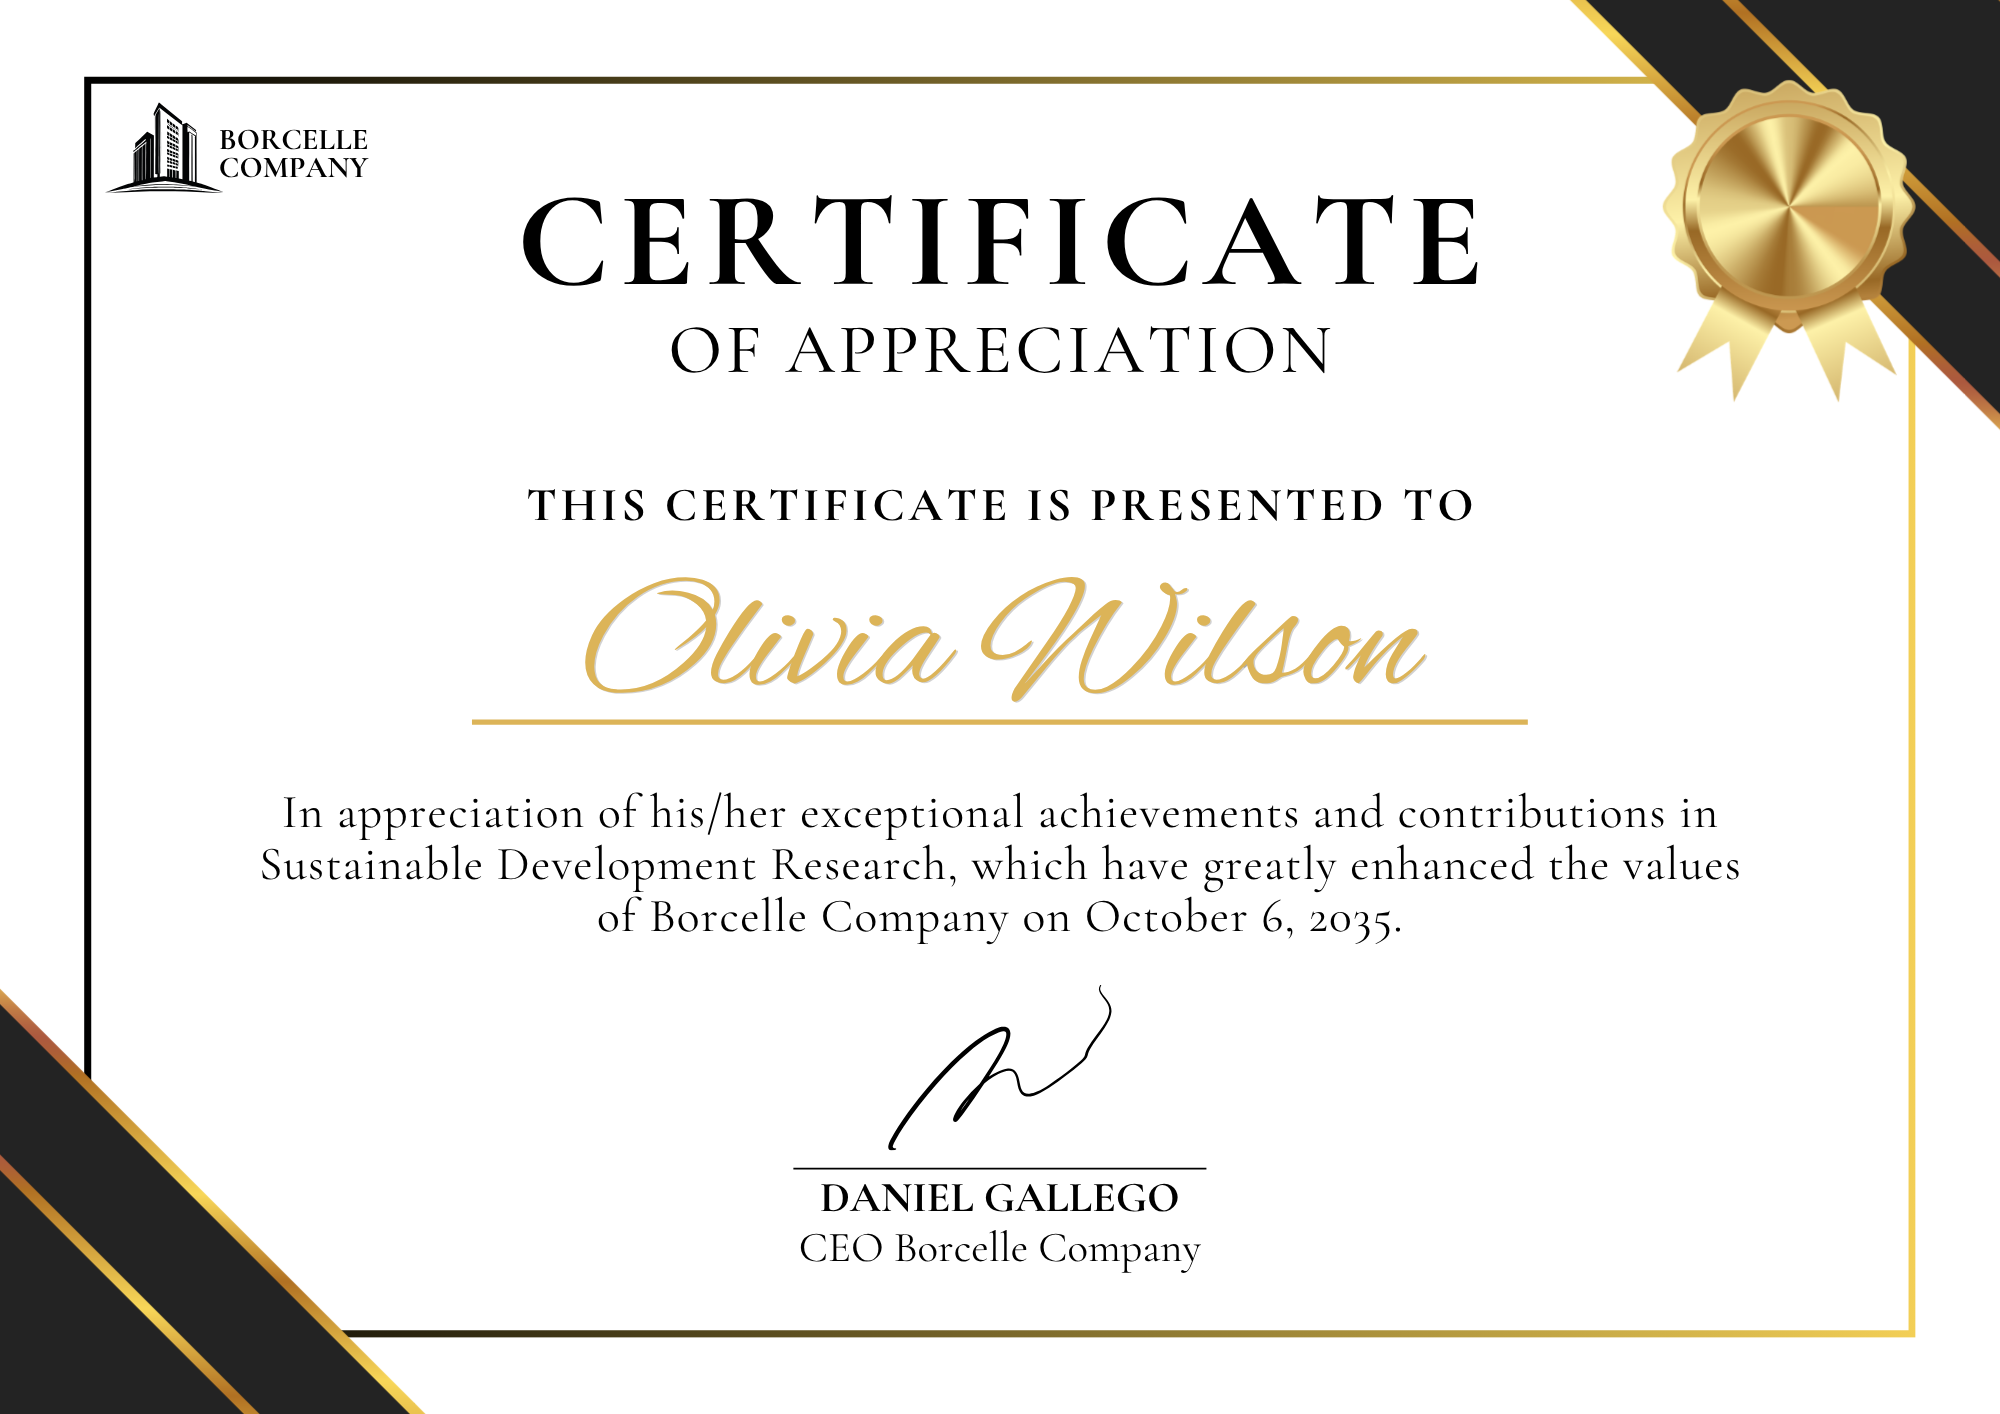
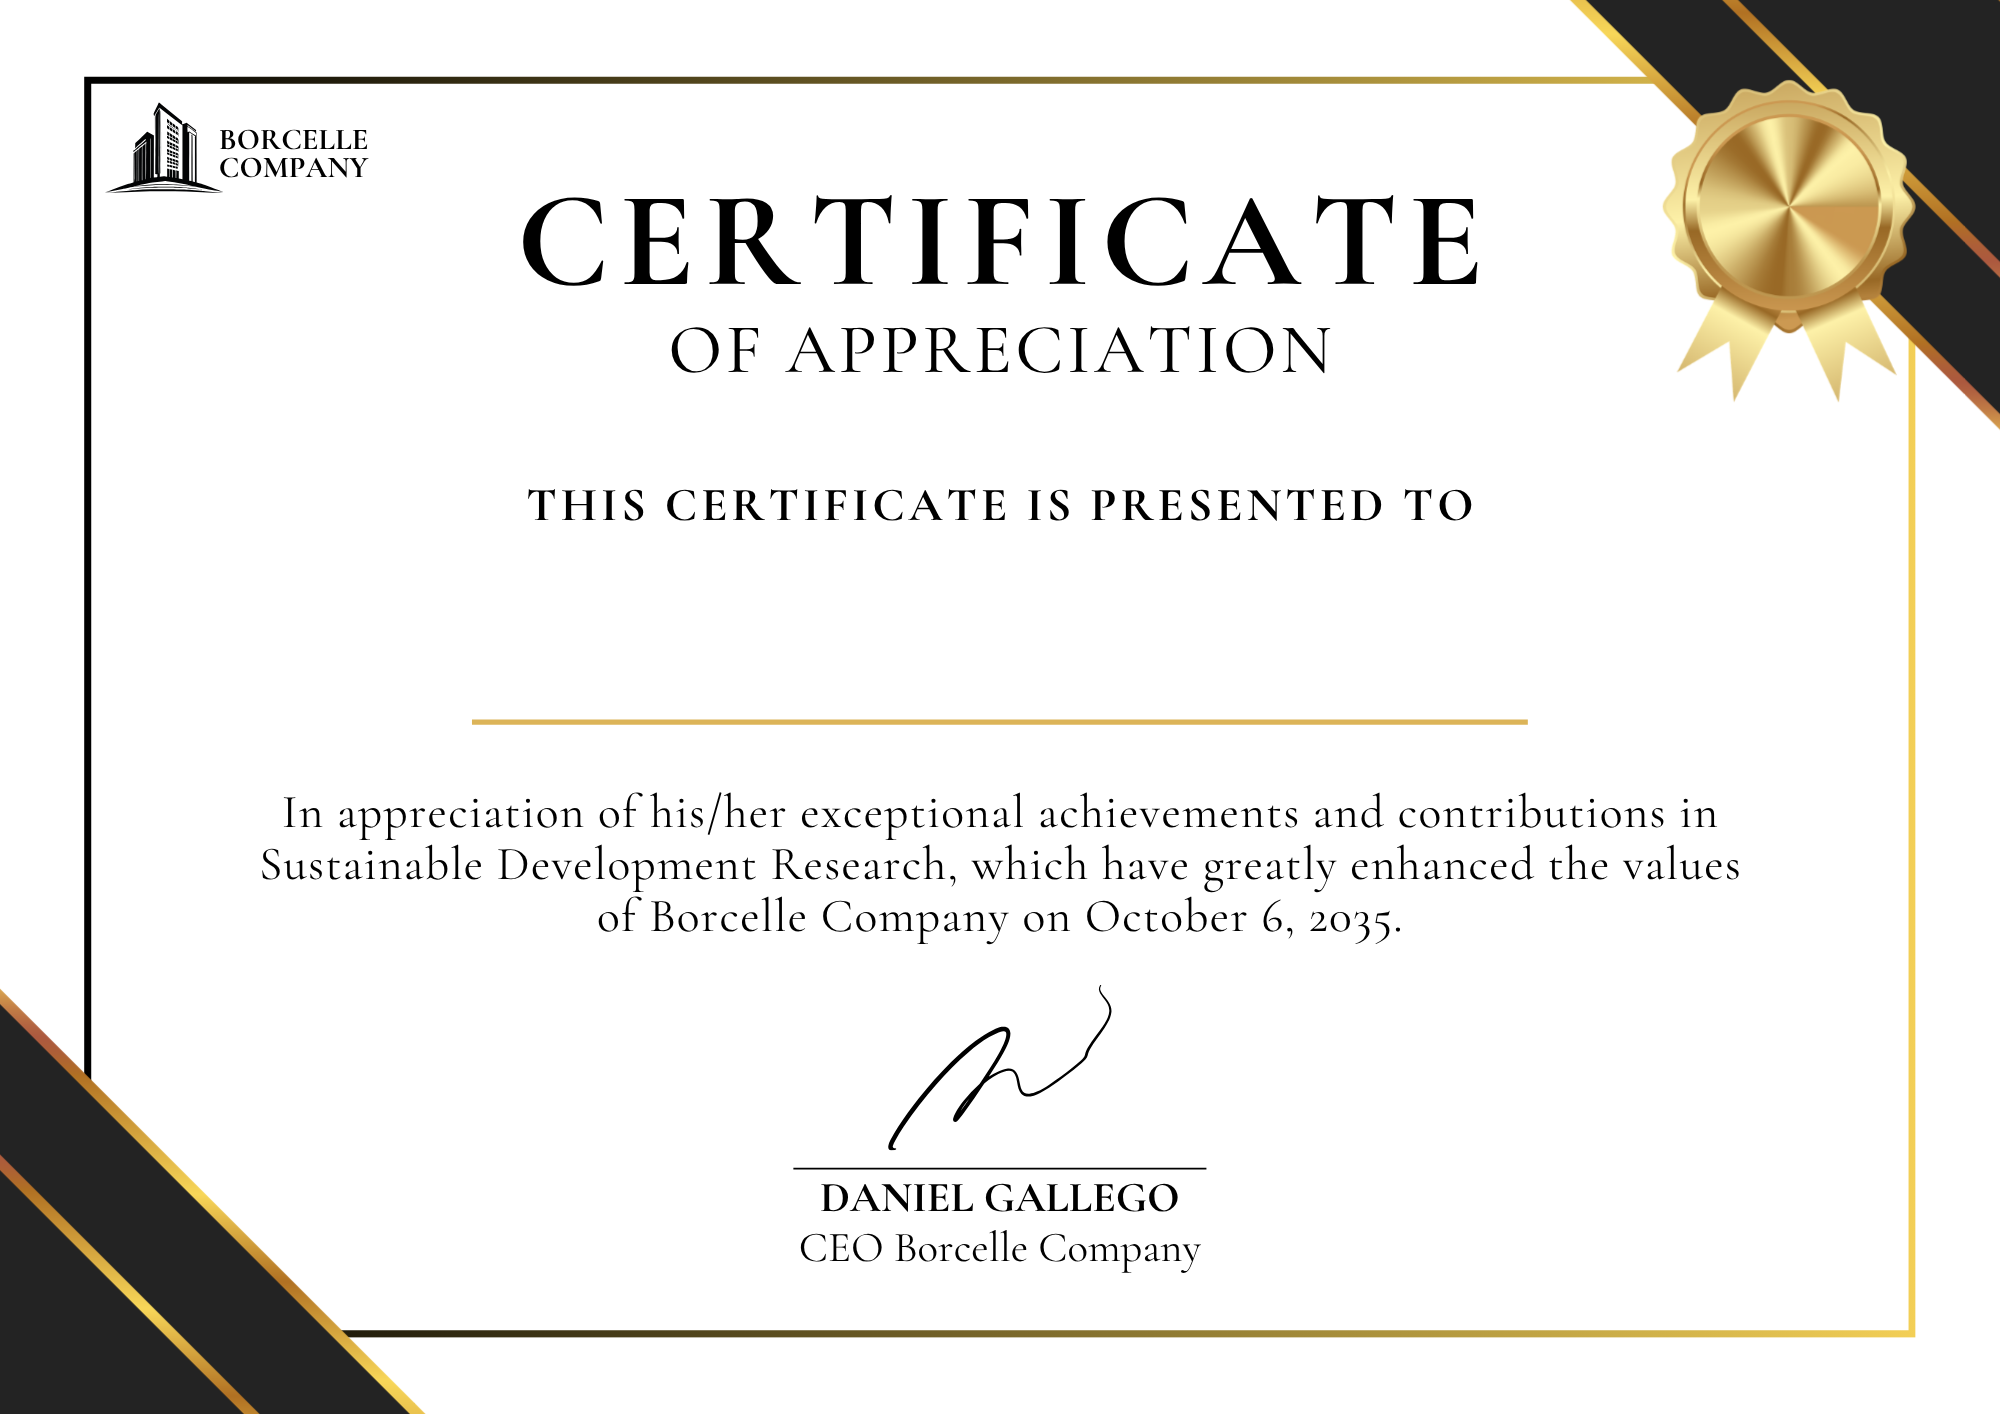
feat(engine): use clean master PNG template, prevent text ghosting, and decouple PDF/image outputs

Changed region(s): [[0.279, 0.4045, 0.713, 0.4979]]

diff --git a/backend/run_generation_test.py b/backend/run_generation_test.py
@@ -25,14 +25,14 @@ from app.services.providers.local_provider import LocalTemplateProvider, LocalDi
 from app.services.providers.supabase_provider import SupabaseTemplateProvider, SupabaseStorageSink
 from app.services.pipeline import CertificatePipeline
 
-def build_manifest(template_filename: str) -> TemplateManifest:
+def build_manifest(output_format: str = "png") -> TemplateManifest:
     """Creates a normalized layout manifest matching the Black Gold Appreciation Certificate"""
-    is_pdf = template_filename.lower().endswith(".pdf")
+    normalized_format = "pdf" if output_format.lower() == "pdf" else "png"
 
     manifest = TemplateManifest(
         template_id="black_gold_appreciation",
-        template_filename=template_filename,
-        default_format="pdf" if is_pdf else "png",
+        template_filename="Black Gold Formal Appreciation Certificate.png",
+        default_format=normalized_format,
         base_width=2000,
         base_height=1414,
         fields={
@@ -52,7 +52,7 @@ def build_manifest(template_filename: str) -> TemplateManifest:
     )
     return manifest
 
-def run_pipeline(mode: str = "local", format_type: str = "png"):
+def run_pipeline(mode: str = "local", format_type: str = "png", clean: bool = True):
     settings = load_settings()
     templates_dir = os.path.join(backend_dir, "sample_templates")
     mock_data_path = os.path.join(backend_dir, "sample_data", "mock_participants.json")
@@ -61,20 +61,18 @@ def run_pipeline(mode: str = "local", format_type: str = "png"):
     with open(mock_data_path, "r", encoding="utf-8") as f:
         participants = json.load(f)
 
-    filename_target = (
-        "Black Gold Formal Appreciation Certificate.pdf"
-        if format_type == "pdf"
-        else "Black Gold Formal Appreciation Certificate.png"
-    )
-
-    manifest = build_manifest(filename_target)
+    # Master template is always the PNG asset (PDF template lacks placeholders)
+    filename_target = "Black Gold Formal Appreciation Certificate.png"
+    manifest = build_manifest(output_format=format_type)
     text_service = TextFittingService()
     engine_factory = CertificateEngineFactory(text_service)
 
+    resolved_format = manifest.default_format.upper()
     print("=" * 70)
-    print(f"AUTOCERT GENERATION PIPELINE — Mode: {mode.upper()} | Format: {format_type.upper()}")
+    print(f"AUTOCERT GENERATION PIPELINE — Mode: {mode.upper()} | Output Format: {resolved_format}")
     print("=" * 70)
-    print(f"Template Target: {filename_target}")
+    print(f"Master Template: {filename_target}")
+    print(f"Output Type: All {'PDF Documents' if resolved_format == 'PDF' else 'PNG Images'} (Separate Generation)")
     print(f"Participants Count: {len(participants)}")
     for i, p in enumerate(participants, 1):
         print(f"  {i}. {p['recipient_name']} ({p['certificate_id']})")
@@ -82,6 +80,15 @@ def run_pipeline(mode: str = "local", format_type: str = "png"):
 
     if mode == "local":
         output_dir = os.path.join(templates_dir, "output")
+        os.makedirs(output_dir, exist_ok=True)
+        if clean:
+            # Clean output directory so outputs of different formats are never mixed
+            for f in os.listdir(output_dir):
+                fp = os.path.join(output_dir, f)
+                if os.path.isfile(fp):
+                    os.remove(fp)
+            print(f"Cleaned output directory: {output_dir}")
+
         provider = LocalTemplateProvider(templates_dir)
         sink = LocalDiskSink(output_dir)
         print(f"Source Folder: {templates_dir}")
@@ -101,7 +108,7 @@ def run_pipeline(mode: str = "local", format_type: str = "png"):
         storage_sink=sink
     )
 
-    print("\nExecuting batch certificate generation...")
+    print(f"\nExecuting batch certificate generation (Format: {resolved_format})...")
     results = pipeline.generate_batch(
         template_id=filename_target,
         participants=participants,
@@ -125,12 +132,18 @@ def main():
     )
     parser.add_argument(
         "--format",
-        choices=["png", "pdf"],
+        choices=["png", "image", "pdf"],
         default="png",
-        help="Template format to test: png or pdf"
+        help="Target output format: 'png'/'image' (generates all images) or 'pdf' (generates all PDFs)"
+    )
+    parser.add_argument(
+        "--no-clean",
+        action="store_true",
+        help="Do not clean output folder prior to batch generation"
     )
     args = parser.parse_args()
-    run_pipeline(mode=args.mode, format_type=args.format)
+    chosen_fmt = "png" if args.format in ("png", "image") else "pdf"
+    run_pipeline(mode=args.mode, format_type=chosen_fmt, clean=not args.no_clean)
 
 if __name__ == "__main__":
     main()

diff --git a/backend/app/services/engines/image_engine.py b/backend/app/services/engines/image_engine.py
@@ -41,6 +41,13 @@ class PillowImageEngine:
             if not text_str:
                 continue
 
+            if field_name == "recipient_name":
+                # Ensure recipient slot is completely clear of any pre-existing template text
+                draw.rectangle(
+                    [(int(canvas_w * 0.20), int(canvas_h * 0.38)), (int(canvas_w * 0.80), int(canvas_h * 0.505))],
+                    fill=(255, 255, 255)
+                )
+
             max_width = int(canvas_w * config.max_w_pct)
             target_size = max(config.min_font_size, int(canvas_h * config.font_size_pct))
 

diff --git a/backend/app/services/engines/pdf_engine.py b/backend/app/services/engines/pdf_engine.py
@@ -6,7 +6,7 @@ relative bounding boxes, and crisp vector font injection.
 
 import io
 from typing import Dict, Any
-import fitz  # PyMuPDF
+import pymupdf as fitz
 from ..protocols import CertificateEngine
 from ..models import TemplateManifest, RenderResult
 
